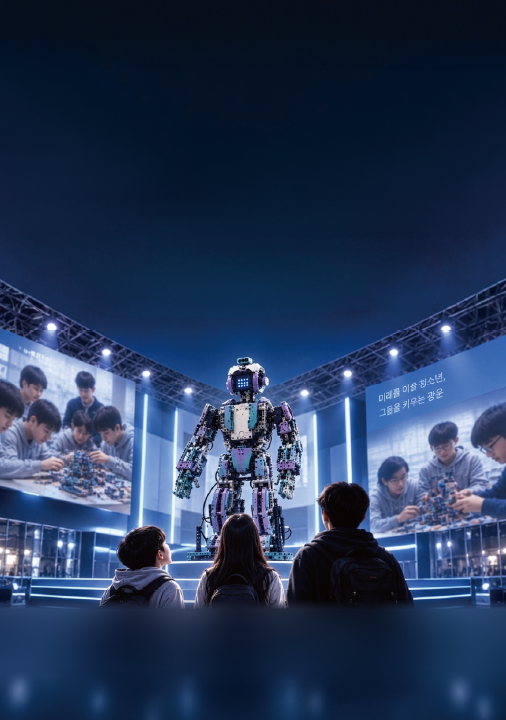
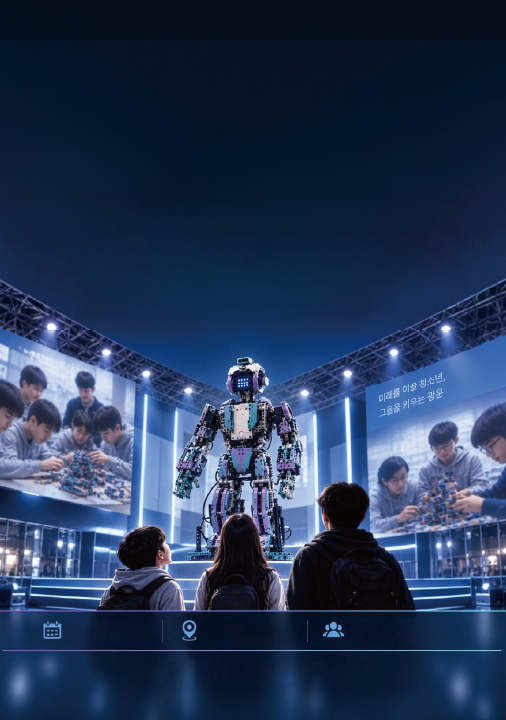
표지 블러 처리 제거: 원본 이미지 복원 후 정보 바를 원본 바 위치에 정확히 덮도록 변경

diff --git a/index.html b/index.html
@@ -47,8 +47,9 @@
   .cover-title .main{font-size:clamp(44px,15vw,72px);font-weight:900;margin:22px 0 4px;letter-spacing:-.02em;
     text-shadow:0 0 12px rgba(190,215,255,.75),0 0 28px rgba(120,170,255,.45)}
   .cover-title .main2{font-size:clamp(22px,7.4vw,34px);font-weight:800;text-shadow:0 0 10px rgba(170,200,255,.6)}
-  .cover-bar{position:absolute;left:0;right:0;top:84.3%;display:flex;
-    padding-block:1.5%;background:rgba(6,16,40,.45);
+  .cover-bar{position:absolute;left:0;right:0;top:84.17%;height:6.94%;display:flex;
+    /* 원본 포스터에 인쇄된 정보 바 자리를 그대로 덮음 (아래 사진은 손대지 않음) */
+    background:linear-gradient(90deg,#08152d,#0a1a33 55%,#0e2c50);
     font-size:clamp(7.5px,2.2vw,10.5px);line-height:1.35;color:#fff}
   /* 원본 포스터 선: 보라 → 하늘색 그라데이션 */
   .cover-bar::before,.cover-bar::after{content:"";position:absolute;left:0;right:0;height:1px;
